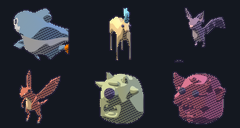
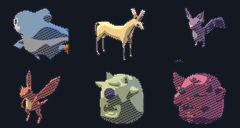
S122b: dozantler side profile + bone antlers
rot 45 was still a rear three-quarter — the zoomed sprite showed a
headless hump with a blue candle. rot 90 gives the clean profile the
probe grid already proved; acc_col swaps the magic-blue horns for bone.

smoke 1048/0/0skip

Generated with [Devin](https://devin.ai)

Changed region(s): [[0.3792, 0.0625, 0.6125, 0.4688]]

diff --git a/tools/art/render_src_asset.py b/tools/art/render_src_asset.py
@@ -114,11 +114,12 @@ CFG = {
         "mat_map": {"Material.003": (0.78, 0.66, 0.38), "Material.006": (0.42, 0.32, 0.20)},
         # the fore-aft horn pair reads as antlers from the profile views a
         # quadruped poses in — the name's identity mark (S122)
-        "accessory": "horns",
+        "accessory": "horns", "acc_col": (0.62, 0.50, 0.34),
         "subd_wool": 2, "displace": None,
-        # rot 0 posed it rear-to-camera with the head low (a hump); 45 shows
-        # the side-on silhouette the probe grid found clean (S122)
-        "rot_z": 45.0, "action": "Idle", "frames": (20, 80),
+        # rot 0 posed it rear-to-camera with the head low (a hump); 45 was
+        # still a rear three-quarter — 90 shows the side profile the probe
+        # grid found clean (S122)
+        "rot_z": 90.0, "action": "Idle", "frames": (20, 80),
         "head_bone": "Head",
         "eye_r": 0.05, "eye_gap": 0.12, "eye_fwd": -0.14, "eye_up": 0.14,
         "nose_r": 0.05, "nose_up": 0.02,

diff --git a/docs/reviews/s122-kin-render-pass.md b/docs/reviews/s122-kin-render-pass.md
@@ -12,7 +12,7 @@ all four S108 den wardens — produced unreadable sprites:
 |---|---|---|
 | `dreadwyrm` | wings folded over the body at `Dragon_Flying` f10 — a red lump | frames (20,30) spread wings + show belly |
 | `tidscale` | `target_h` 0.80 normalized a long fish to a sliver; `Idle` action doesn't exist in the blend | `Swimming` (10,30), `target_h` 1.35 |
-| `dozantler` | rear-to-camera grazing pose read as a hump; name's antlers never delivered | `rot_z` 45 side profile, `horns` accessory, frames (20,80) |
+| `dozantler` | rear-to-camera grazing pose read as a hump; name's antlers never delivered | `rot_z` 90 side profile (45 was still rear-biased), `horns` accessory + bone `acc_col`, frames (20,80) |
 | `gloamwing` | upright bat at `target_h` 1.2 rendered a speck | 1.5, frames (0,15) |
 | `cragmaw` | single `eye_fwd` 0.72/r0.13 bead buried behind the chibi brow; rot 35 hid the face | rot 0 front-on, bead 0.95/0.17 clears the brow |
 | `hexfiend` | same class — rot 35 + buried beads left a pink ball | rot 0, beads 0.90/0.10 |
